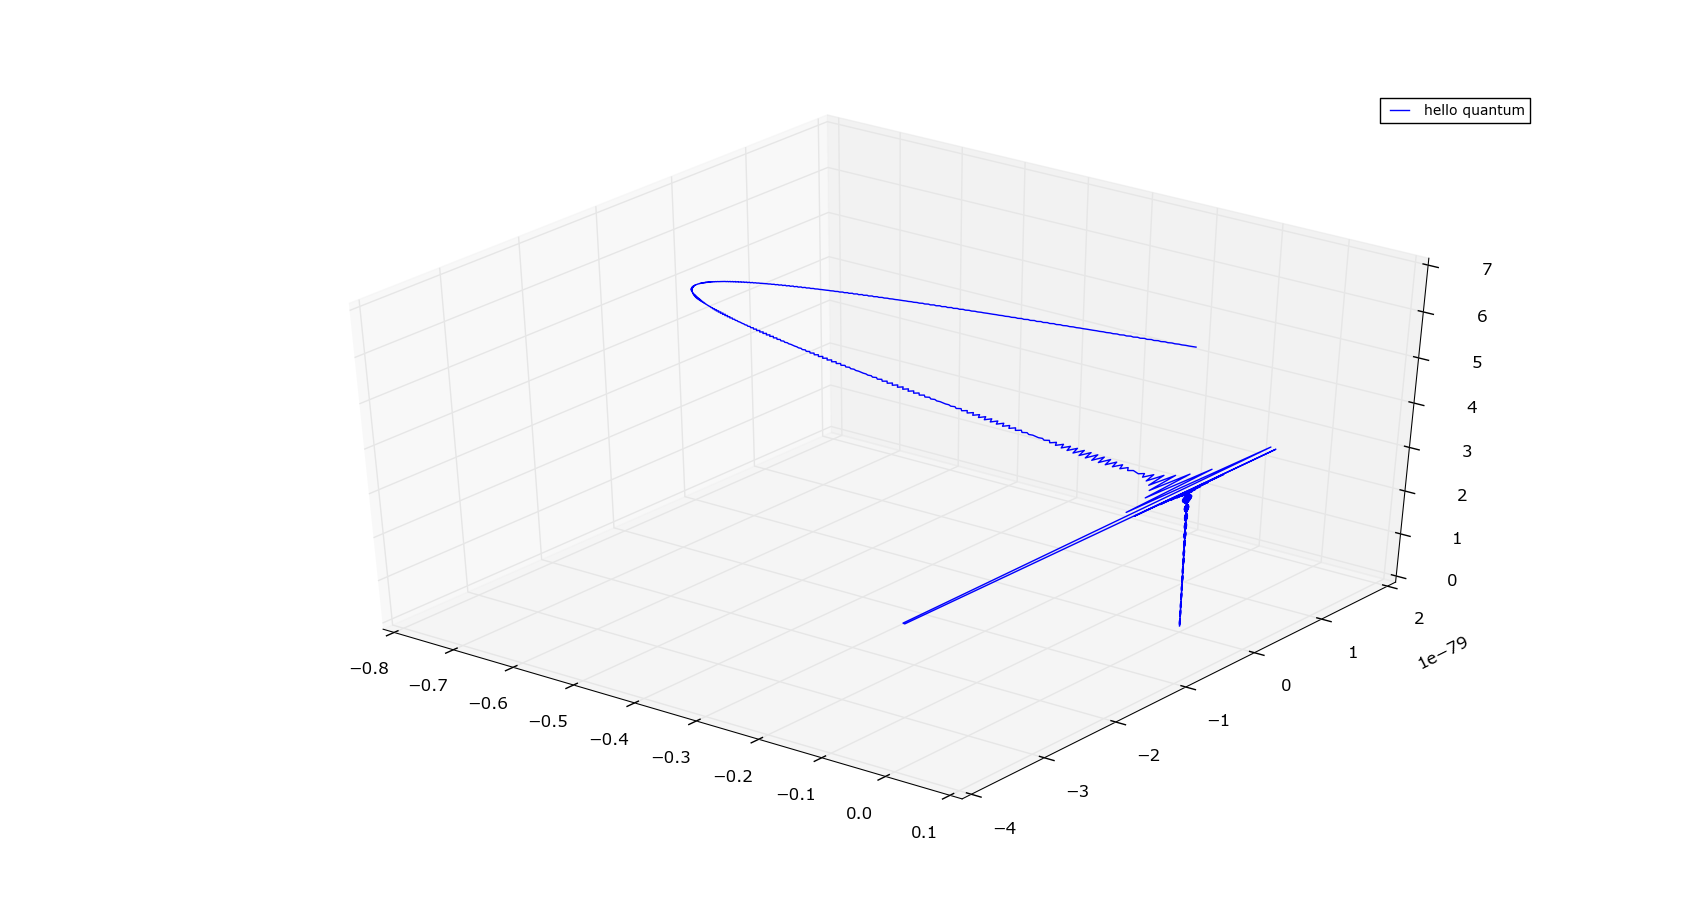
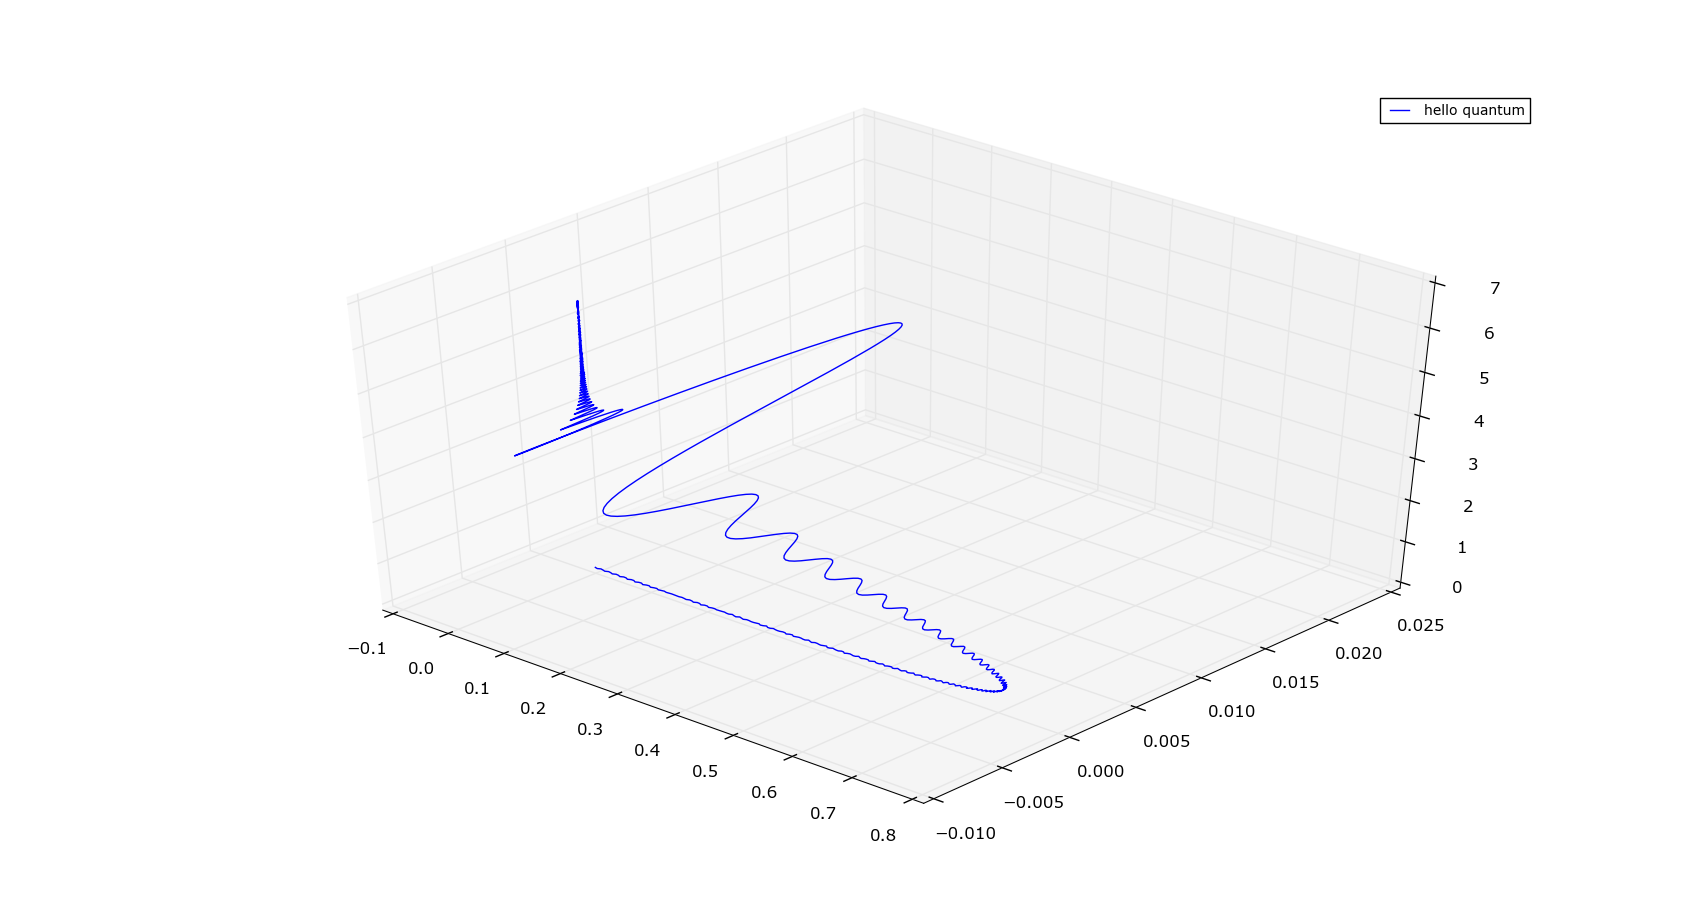
update figure

diff --git a/evol.py b/evol.py
@@ -109,7 +109,7 @@ def evolve_v(t):
 mpl.rcParams['legend.fontsize'] = 10
 fig = plt.figure()
 ax = fig.gca(projection='3d')
-X, Y, Z = evolve_v(1e-80)
+X, Y, Z = evolve_v(1e-2)
 ax.plot(X, Y, Z, label='hello quantum')
 ax.legend()
 
